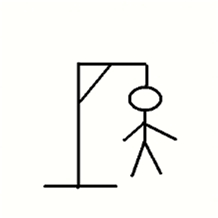
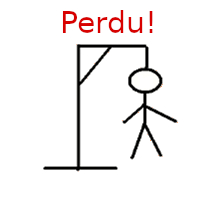
Exo Le Pendu

Changed region(s): [[0.18, 0.21, 0.9, 0.87], [0.3, 0.03, 0.78, 0.18]]

diff --git a/FrameworkNET/FormationDotNET/FormationWPF/Exercices/LePenduWPF/MainWindow.xaml b/FrameworkNET/FormationDotNET/FormationWPF/Exercices/LePenduWPF/MainWindow.xaml
@@ -5,8 +5,25 @@
         xmlns:mc="http://schemas.openxmlformats.org/markup-compatibility/2006"
         xmlns:local="clr-namespace:LePenduWPF"
         mc:Ignorable="d"
-        Title="MainWindow" Height="450" Width="800">
-    <Grid>
-
-    </Grid>
+        Title="Le Pendu WPF" Height="500" Width="800" WindowStartupLocation="CenterScreen" ResizeMode="NoResize">
+    <StackPanel Background="DarkOrange">
+        <TextBlock Text="Le Pendu" Foreground="#404040" TextAlignment="Center" Margin="0,20,0,0" FontWeight="Bold" FontSize="35" />
+        <StackPanel Orientation="Horizontal">
+            <StackPanel Width="400" Height="300">
+                <Image x:Name="ImageDisplay" Source="/img/pendu-1_orange.jpg" MaxHeight="300" Margin="0,10,0,0"/>
+            </StackPanel>
+            <StackPanel  Width="400" Height="300">
+                <TextBlock Text="Le mot à trouver" Height="40" FontSize="30" TextAlignment="Center" Foreground="#FFFFFF" Margin="0,20,0,0"/>
+                <TextBlock x:Name="BlocMasque" Text="*********" Height="60" FontSize="40" TextAlignment="Center" Foreground="#404040" Margin="0,20,0,0"/>
+                <TextBlock Text="Lettre(s) déjà proposée(s):" FontSize="25" TextAlignment="Center" Foreground="#FFFFFF"/>
+                <TextBlock x:Name="BlocDejaPropose" Text="A-B-C-D" FontSize="25" TextAlignment="Center" Foreground="#404040" Margin="0,10,0,0"/>
+                <TextBlock Text="Proposez une lettre : " FontSize="25" TextAlignment="Center" Foreground="#FFFFFF"/>
+                <StackPanel Orientation="Horizontal">
+                    <TextBox x:Name="BoxUserChar" MinWidth="150" Height="50" Margin="40,0,40,0" VerticalContentAlignment="Center" FontSize="30" TextAlignment="Right" />
+                    <Button x:Name="BtnValider" Content="Valider" Height="50" Width="120" FontSize="30" Margin="10,0,0,0" VerticalAlignment="Center" Click="BtnValider_Click"/>
+                </StackPanel>                
+            </StackPanel>
+        </StackPanel>
+        <Button x:Name="BtnRejouer" Content="Rejouer" FontSize="25" Height="50" Margin="20,20,20,20" Click="BtnRejouer_Click" />
+    </StackPanel>
 </Window>

diff --git a/FrameworkNET/FormationDotNET/FormationWPF/Exercices/LePenduWPF/App.xaml b/FrameworkNET/FormationDotNET/FormationWPF/Exercices/LePenduWPF/App.xaml
@@ -4,6 +4,25 @@
              xmlns:local="clr-namespace:LePenduWPF"
              StartupUri="MainWindow.xaml">
     <Application.Resources>
-         
+        <Style TargetType="{x:Type Button}">
+            <Setter Property="Background" Value="#FF404040"/>
+            <Setter Property="Foreground" Value="white"/>
+            <Setter Property="Template">
+                <Setter.Value>
+                    <ControlTemplate TargetType="{x:Type Button}">
+                        <Border Background="{TemplateBinding Background}">
+                            <ContentPresenter HorizontalAlignment="Center" VerticalAlignment="Center" />
+                        </Border>
+                    </ControlTemplate>
+                </Setter.Value>
+            </Setter>
+            <Style.Triggers>
+                <Trigger Property="IsMouseOver" Value="True">
+                    <Setter Property="Background" Value="#FF707070"/>
+                    <Setter Property="Foreground" Value="OrangeRed"/>
+                </Trigger>
+            </Style.Triggers>
+
+        </Style>
     </Application.Resources>
 </Application>

diff --git a/FrameworkNET/FormationDotNET/FormationWPF/Exercices/LePenduWPF/MainWindow.xaml.cs b/FrameworkNET/FormationDotNET/FormationWPF/Exercices/LePenduWPF/MainWindow.xaml.cs
@@ -12,6 +12,7 @@ using System.Windows.Media;
 using System.Windows.Media.Imaging;
 using System.Windows.Navigation;
 using System.Windows.Shapes;
+using TpLePendu.Classes;
 
 namespace LePenduWPF
 {
@@ -20,9 +21,119 @@ namespace LePenduWPF
     /// </summary>
     public partial class MainWindow : Window
     {
+        private LePendu _jeu;
+
         public MainWindow()
         {
             InitializeComponent();
+            Start();
+        }
+
+        private void Start()
+        {
+            _jeu = new LePendu();
+            BlocMasque.Text = _jeu.Masque;
+            BlocDejaPropose.Text = "";
+            BoxUserChar.Text = "";
+            BtnValider.IsEnabled = true;
+            BoxUserChar.KeyDown += BoxUserChar_KeyDown;
+            ImageDisplay.Source = new BitmapImage(new Uri(@"/img/pendu-1_orange.jpg", UriKind.Relative));
+        }
+
+        private void BtnRejouer_Click(object sender, RoutedEventArgs e)
+        {
+            Start();
+        }
+
+        private void YouWin()
+        {
+            MessageBox.Show($"Bravo!!!Vous avez gagné ! \nLe mot mystère était {_jeu.MotAtrouve.ToUpper()}", "Victoire", MessageBoxButton.OK, MessageBoxImage.Exclamation);
+            BtnValider.IsEnabled = false;
+            BoxUserChar.KeyDown -= BoxUserChar_KeyDown;
+        }
+
+        private void YouLoose()
+        {
+            MessageBox.Show($"Dommage!!!Vous avez perdu ! \nLe mot mystère était {_jeu.MotAtrouve.ToUpper()}", "Défaite", MessageBoxButton.OK, MessageBoxImage.Exclamation);
+            BtnValider.IsEnabled = false;
+            BoxUserChar.KeyDown -= BoxUserChar_KeyDown;
+        }
+
+        private void ChangeImage()
+        {
+            switch (_jeu.NbEssai)
+            {
+                case 9:
+                    ImageDisplay.Source = new BitmapImage(new Uri(@"/img/pendu-2_orange.jpg", UriKind.Relative));
+                    break;
+                case 8:
+                    ImageDisplay.Source = new BitmapImage(new Uri(@"/img/pendu-3_orange.jpg", UriKind.Relative));
+                    break;
+                case 7:
+                    ImageDisplay.Source = new BitmapImage(new Uri(@"/img/pendu-4_orange.jpg", UriKind.Relative));
+                    break;
+                case 6:
+                    ImageDisplay.Source = new BitmapImage(new Uri(@"/img/pendu-5_orange.jpg", UriKind.Relative));
+                    break;
+                case 5:
+                    ImageDisplay.Source = new BitmapImage(new Uri(@"/img/pendu-6_orange.jpg", UriKind.Relative));
+                    break;
+                case 4:
+                    ImageDisplay.Source = new BitmapImage(new Uri(@"/img/pendu-7_orange.jpg", UriKind.Relative));
+                    break;
+                case 3:
+                    ImageDisplay.Source = new BitmapImage(new Uri(@"/img/pendu-8_orange.jpg", UriKind.Relative));
+                    break;
+                case 2:
+                    ImageDisplay.Source = new BitmapImage(new Uri(@"/img/pendu-9_orange.jpg", UriKind.Relative));
+                    break;
+                case 1:
+                    ImageDisplay.Source = new BitmapImage(new Uri(@"/img/pendu-10_orange.jpg", UriKind.Relative));
+                    break;
+                case 0:
+                    ImageDisplay.Source = new BitmapImage(new Uri(@"/img/pendu-11_orange.jpg", UriKind.Relative));
+                    break;
+            }
+        }
+
+        private void BtnValider_Click(object sender, RoutedEventArgs e)
+        {
+            if (BoxUserChar.Text != "" && BoxUserChar.Text.Length == 1)
+            {
+                if (_jeu.TestChar(char.Parse(BoxUserChar.Text)))
+                {
+                    BlocMasque.Text = _jeu.Masque;
+                    if (_jeu.TestWin())
+                    {
+                        YouWin();
+                    }
+                }
+                else
+                {
+                    BlocDejaPropose.Text += BlocDejaPropose.Text == "" ?
+                        BoxUserChar.Text : "-" + BoxUserChar.Text;
+                    ChangeImage();
+                    if (_jeu.NbEssai==0)
+                    {
+                        YouLoose();
+                    }
+                }
+            }
+            else
+            {
+                MessageBox.Show("Veuillez saisir une lettre", "Erreur de saisie", MessageBoxButton.OK, MessageBoxImage.Stop);
+            }
+
+            BoxUserChar.Text = "";
+            BoxUserChar.Focus();
+        }
+
+        private void BoxUserChar_KeyDown(object sender, KeyEventArgs e)
+        {
+            if (e.Key == Key.Enter)
+            {
+                BtnValider_Click(sender, e);
+            }
         }
     }
 }
